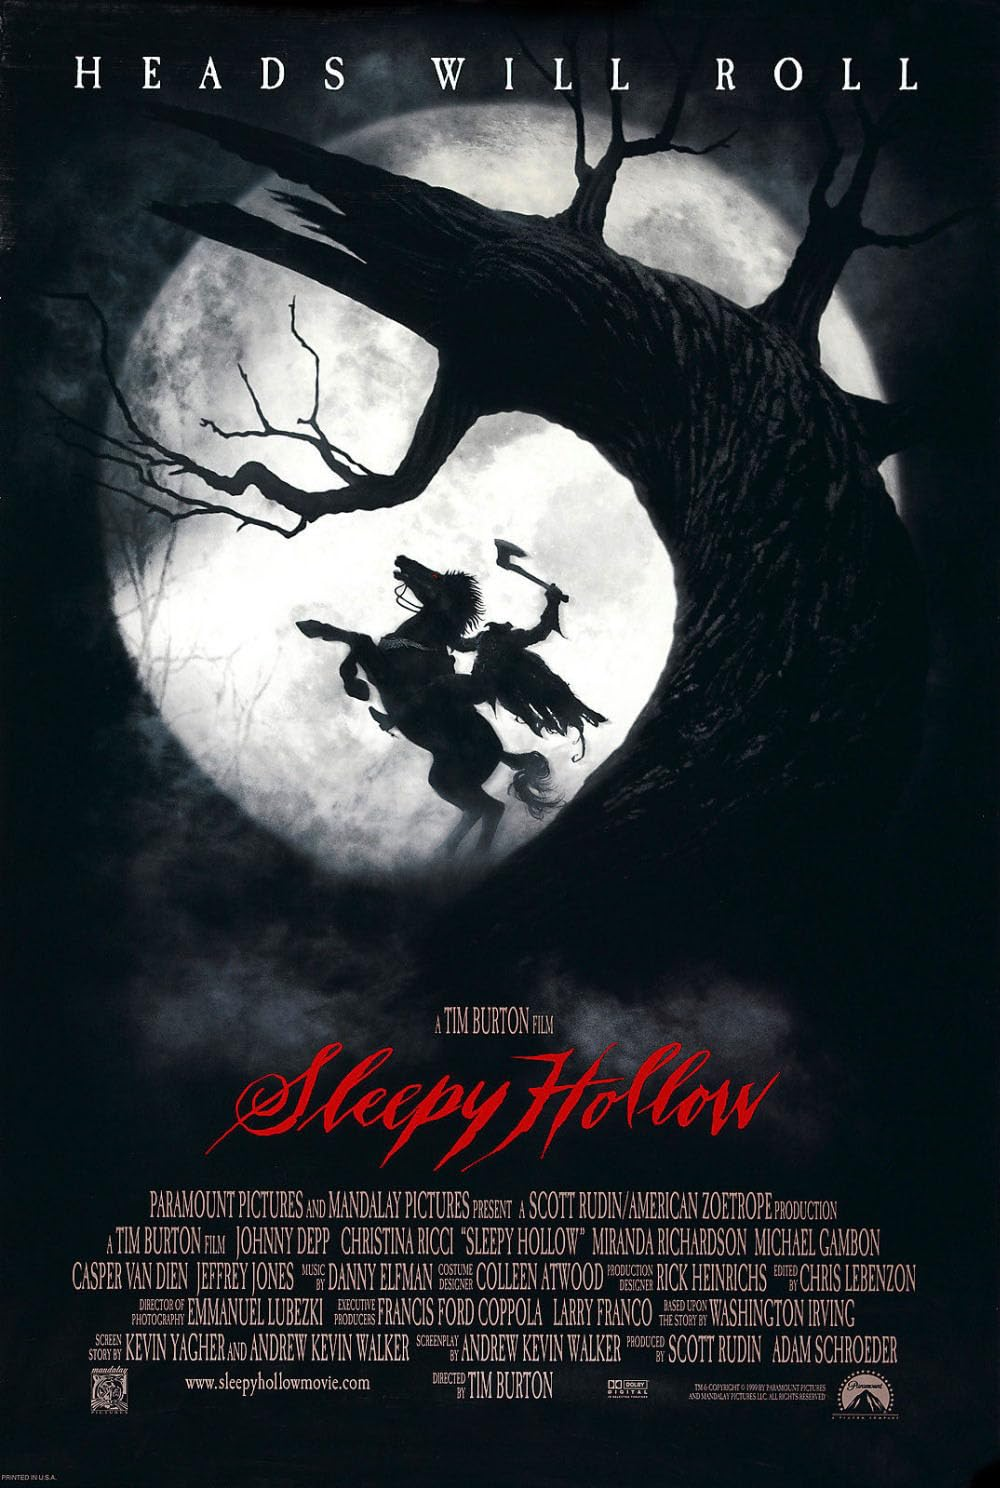
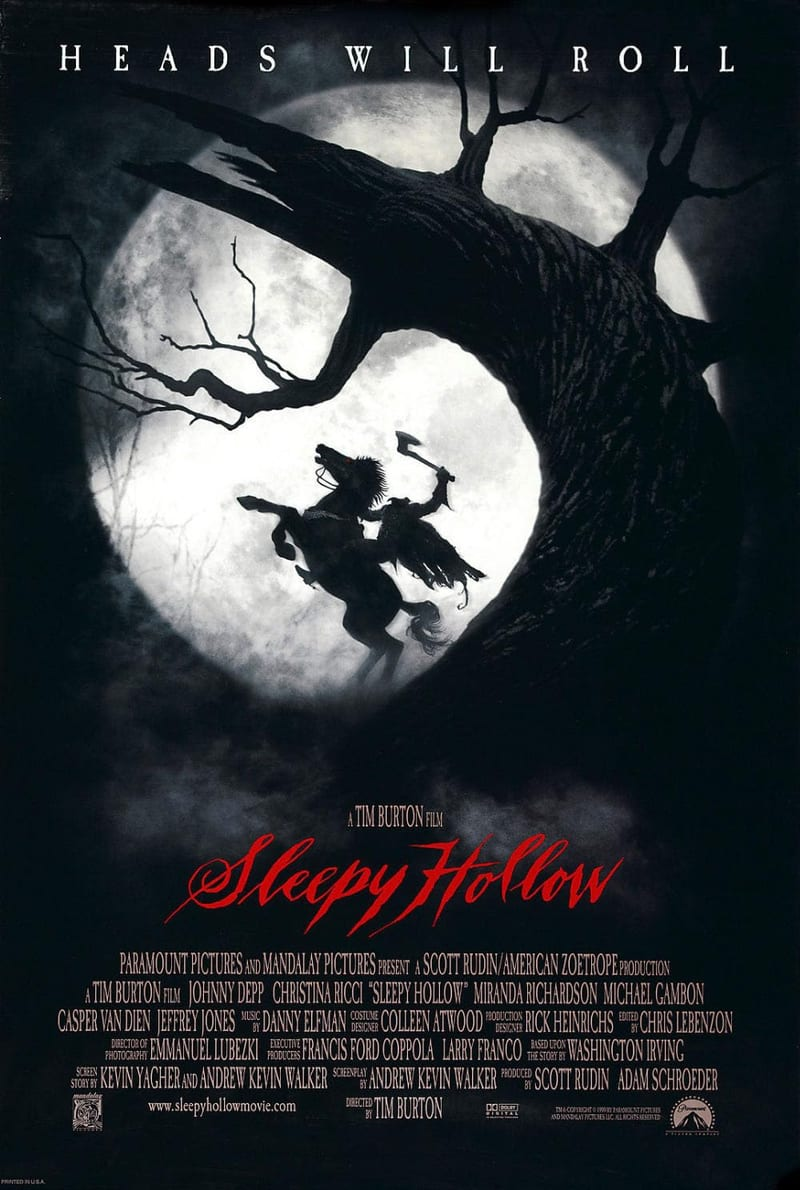
Lighter home and shelf, one masthead everywhere, a bigger certificate that stays whole
- items PNGs to WebP, posters to 800px: home 14.8 → 9.8 MB, off-duty 8.9 → 3.5 MB
- the tablet stays off, and its recording unloaded, until the folder opens
- title and lead stay on the desk and the wall, and head the menu panel too
- the folder's prints and card land clear of the column; the column lets the pointer through
- the wordmark brings the camera home from either stop
- CSSDA seals as worn paper stickers
- the certificate 1.5x, leaning onto the wall rather than through it; the camera stands back to fit it

Changed region(s): [[0.2188, 0.9017, 0.25, 0.9328]]

diff --git a/app/globals.css b/app/globals.css
@@ -1289,13 +1289,15 @@ body::after {
 .env__big { position: absolute; left: 7%; bottom: 3%;
             font-family: var(--font-display), system-ui, sans-serif; font-weight: 900; font-stretch: 62%;
             font-size: calc(118 * var(--eu)); line-height: .8; letter-spacing: -.04em; }
-/* MUSE Gold keeps its foil; the round CSSDA seals are stickers with a white
-   die-cut edge and a thin shadow (box-shadows, not filters — see above). */
+/* MUSE Gold keeps its foil; the round CSSDA seals are paper stickers — matte
+   stock, a die-cut off-white edge and ink worn off in places, all baked into
+   the -paper.webp files — lying flat with a thin shadow (box-shadows, not
+   filters — see above). */
 .env__stamps { position: absolute; inset: 0; }
 .env__stamp, .env__sticker { position: absolute; display: block; }
 .env__stamp--muse { right: 9%; top: 33%; width: 36%; transform: rotate(-4deg); opacity: .92; }
 .env__sticker { transform: rotate(var(--t, 0deg)); border-radius: 50%;
-  box-shadow: 0 0 0 calc(.9 * var(--eu)) #fff, 0 calc(.6 * var(--eu)) calc(.9 * var(--eu)) calc(.9 * var(--eu)) rgba(20,16,12,.3); }
+  box-shadow: 0 calc(.3 * var(--eu)) calc(.5 * var(--eu)) rgba(20,16,12,.28); }
 .env__sticker--ui    { right: 6%;  top: 42%; width: 21%; --t: -8deg; }
 .env__sticker--ux    { right: 27%; top: 44%; width: 18%; --t: 6deg; }
 .env__sticker--kudos { right: 5%;  top: 55%; width: 18%; --t: 14deg; }
@@ -1525,15 +1527,16 @@ html[data-desk-focus="ukrainska-15"] .desk-card[data-side="right"] { --slide: 15
 [data-desk="open"] .desk-world { pointer-events: auto; }
 
 /* ── Recognition: the camera's second stop ──
-   The trophy is big (56 cm), so the camera barely comes in: 15 cm (z 2000),
-   1 m right (x 1578) and 4° down. The trophy (x 1240, 7 cm off the wall)
+   The trophy is big (56 cm), so the camera stands back 35 cm, a little
+   right of the case (x -1100) and 4° down: far enough for the trophy, the
+   rail and the framed certificate beside it to share the frame. The trophy (x 1240, 7 cm off the wall)
    lands left of centre with its base ~16% up the window, the wall to its
    right, a strip of desk under it. Nothing leaves: the case slides off to
    the left (its edge may stay in shot) and the case files stay on the desk. */
 [data-desk="award"] .scene-cam { transform: translate(var(--dx, 0px), var(--dy, 0px)); }
 [data-desk="award"] .desk-world,
 [data-desk="award"] .case-world {
-  transform: rotateX(-4deg) translate3d(calc(-1018 * var(--u)), 0, calc(150 * var(--u)));
+  transform: rotateX(-4deg) translate3d(calc(-1100 * var(--u)), 0, calc(-350 * var(--u)));
 }
 [data-desk="award"] .case-world { pointer-events: none; }
 /* Once there, the pan is driven frame by frame, so the move's own
@@ -1570,15 +1573,19 @@ html[data-desk-focus="ukrainska-15"] .desk-card[data-side="right"] { --slide: 15
 [data-desk="open"] .desk-card--env:not([data-open]):hover .env__shadow {
   box-shadow: 0 calc(6 * var(--eu) / 3) calc(8 * var(--eu) / 3) rgba(20,16,12,.24);
 }
-/* The page around it: the title and the lines under the case step aside,
-   and the index stays, inked for the white desk (over the dark wall it keeps
-   its own colours). */
-.hero-aside h2, .hero-aside h2 + p, .hero-caption, .hero-contact { transition: opacity .5s ease; }
-[data-desk="open"] .hero-aside h2, [data-desk="award"] .hero-aside h2,
-[data-desk="open"] .hero-aside h2 + p, [data-desk="award"] .hero-aside h2 + p,
+/* The page around it: the lines under the case step aside; the column —
+   title, lead and index — stays as it is on every page, inked for the white
+   desk (over the dark wall it keeps its own colours). */
+.hero-caption, .hero-contact { transition: opacity .5s ease; }
 [data-desk="open"] .hero-caption, [data-desk="award"] .hero-caption,
 [data-desk="open"] .hero-contact, [data-desk="award"] .hero-contact { opacity: 0; pointer-events: none; }
-[data-desk="open"] .hero-aside { --fg: #22283a; --muted: #5b6275; }
+/* Over the desk the column's title and lead stay, but only its links take the
+   pointer, so what lies under the words can still be picked up. The ink turns
+   dark only where the column stands over the white desk (1440px and up);
+   under that it sits above the scene, on the page's own ground. */
+[data-desk="open"] .hero-aside-wrap { pointer-events: none; }
+[data-desk="open"] .hero-aside-wrap :is(a, button) { pointer-events: auto; }
+@media (min-width: 1440px) { [data-desk="open"] .hero-aside { --fg: #22283a; --muted: #5b6275; } }
 [data-desk="open"] .hero-aside-wrap, [data-desk="award"] .hero-aside-wrap { border-color: transparent !important; }
 /* <main> starts 56px above the window (under the header) and is one window
    tall, so it stops 56px short of the bottom — and it clips the room. Over

diff --git a/components/desk/U15File.tsx b/components/desk/U15File.tsx
@@ -38,10 +38,10 @@ const SPD = 2150 / 860;                       // screen px per desk px at the ca
 // MUSE Gold is printed in its foil and French Design Awards (no artwork) is a
 // struck ink stamp.
 const STICKERS = [
-  { src: "cssda-ui.png", cls: "ui" },
-  { src: "cssda-ux.png", cls: "ux" },
-  { src: "cssda-inn.png", cls: "inn" },
-  { src: "cssda-kudos.png", cls: "kudos" },
+  { src: "cssda-ui-paper.webp", cls: "ui" },
+  { src: "cssda-ux-paper.webp", cls: "ux" },
+  { src: "cssda-inn-paper.webp", cls: "inn" },
+  { src: "cssda-kudos-paper.webp", cls: "kudos" },
 ] as const;
 
 // Two stacks of prints tucked in the pocket, the family before and the house
@@ -71,17 +71,18 @@ type Pt = { x: number; y: number };
 
 // Where each thing goes once the folder is open, as an offset from where it
 // lies closed (folder units) and the angle it lands at. The layout is for the
-// camera at pan 0: the card left, the booklet to the middle, the stacks up,
+// camera at pan 0, clear of the nav column on the left (it stays on the desk
+// too): the card left, the booklet to the middle, the stacks up,
 // the player right, the tablet slid out bottom right, the folder down.
 // The booklet (nearly the folder's own size, so it lies in the pocket behind
 // the prints) takes the middle of the desk; everything else is laid round
 // its edges, in sight but out of the way, and can be pulled out from under it.
 const OPEN: Record<string, Pt & { r: number }> = {
   sleeve: { x: -20, y: 190, r: -2 },
-  family: { x: -67.5, y: -63, r: 4 },
+  family: { x: 22.5, y: -63, r: 4 },
   after: { x: 169.5, y: -74.6, r: -3 },
-  card: { x: -120, y: 31, r: -4 },
-  book: { x: 55.5, y: -12.5, r: 1 },
+  card: { x: 10, y: 31, r: -4 },
+  book: { x: 85.5, y: -12.5, r: 1 },
   player: { x: 129, y: 20, r: 12 },
   tablet: { x: 160, y: 95, r: -4 },
 };
@@ -191,7 +192,7 @@ export function U15File({ x, y, r }: { x: number; y: number; r: number }) {
       } as React.CSSProperties}
     >
       <span className="env">
-        <Tablet place={place("tablet", 8)} held={held === "tablet"} onPointerDown={(e) => grab("tablet", () => setScreen(true))(e)} onOpen={() => setScreen(true)} />
+        <Tablet live={open} place={place("tablet", 8)} held={held === "tablet"} onPointerDown={(e) => grab("tablet", () => setScreen(true))(e)} onOpen={() => setScreen(true)} />
 
         <span className="env__shadow u15-sleeve u15-item" style={sleeve} aria-hidden />
         {/* eslint-disable-next-line @next/next/no-img-element */}
@@ -479,7 +480,8 @@ function DeskPlayer({ place, held, onGrab }: {
 // The screen is 4.08% / 3.32% in, 91.3 × 88.6% of the cut-out (2360 × 1640).
 const SITE = "https://ukrainska15.com/";
 
-function Tablet({ place, held, onPointerDown, onOpen }: {
+function Tablet({ live, place, held, onPointerDown, onOpen }: {
+  live: boolean;
   place: React.CSSProperties; held: boolean;
   onPointerDown: (e: React.PointerEvent<HTMLElement>) => void; onOpen: () => void;
 }) {
@@ -498,8 +500,10 @@ function Tablet({ place, held, onPointerDown, onOpen }: {
     >
       {/* eslint-disable-next-line @next/next/no-img-element */}
       <img src="/artefacts/ukrainska-15/tablet/tablet.webp" alt="" draggable={false} />
-      <video className="u15-tablet__screen" src="/artefacts/ukrainska-15/tablet/site-scroll.mp4"
-        poster="/artefacts/ukrainska-15/tablet/site-poster.jpg" muted loop playsInline autoPlay preload="metadata" />
+      {/* Switched off until the folder is open: a dark screen, and the
+          recording only loads once there is a case on the desk to show. */}
+      <video className="u15-tablet__screen" src={live ? "/artefacts/ukrainska-15/tablet/site-scroll.mp4" : undefined}
+        poster={live ? "/artefacts/ukrainska-15/tablet/site-poster.jpg" : undefined} muted loop playsInline autoPlay preload="metadata" />
     </button>
   );
 }

diff --git a/components/DeskScene.tsx b/components/DeskScene.tsx
@@ -70,8 +70,11 @@ const AWARD = { x: 1240, h: 600, z: -190 };
 const AWARD_W = Math.round(AWARD.h * 1033 / 3590);   // the still's own aspect
 // The latest certificate (Indigo, Women in Design 2026), framed and
 // standing on the desk against the wall at the right end of the awards:
-// 30 × 21 cm, its foot 2 cm off the wall and its top leaning back onto it.
-const CERT = { x: 2200, w: 322, h: 241, z: -250, lean: 5 };
+// 43 × 32 cm, leaning back 4° with its top just short of the wall: the foot
+// stands h·sin(lean) + 3 px out from it (the wall is at z -269), so the top
+// edge never passes behind the wall and gets cut off.
+const CERT = { x: 2290, w: 460, h: 339, lean: 4 };
+const CERT_Z = Math.round(-269 + CERT.h * Math.sin(CERT.lean * Math.PI / 180) + 3);
 // how far its shadow falls on the wall, 8 cm behind it (box px)
 const CAST = { x: 34, y: 20 };
 
@@ -107,7 +110,7 @@ export function DeskPlanes() {
         style={{
           left: `calc(${CERT.x - CERT.w / 2} * var(--u))`, top: `calc(${656 - CERT.h} * var(--u))`,
           width: `calc(${CERT.w} * var(--u))`, height: `calc(${CERT.h} * var(--u))`,
-          transform: `translateZ(calc(${CERT.z} * var(--u))) rotateX(${CERT.lean}deg)`,
+          transform: `translateZ(calc(${CERT_Z} * var(--u))) rotateX(${CERT.lean}deg)`,
         }}
       >
         {/* eslint-disable-next-line @next/next/no-img-element */}
@@ -338,6 +341,18 @@ export function useDeskCamera(cam: React.RefObject<HTMLDivElement | null>) {
     const onFiles = () => toggle("files");
     const onAward = () => toggle("award");
     const onPop = () => { pushed = false; set(viewOf(location.hash)); };
+    // A link to home (the KATE™ wordmark) from the desk or the wall: Next
+    // changes the URL with pushState, which fires no popstate, so the camera
+    // would stay where it is. Take the click and bring it back to the case.
+    const onHomeLink = (e: MouseEvent) => {
+      if (!open.current || e.defaultPrevented || e.button !== 0 || e.metaKey || e.ctrlKey || e.shiftKey || e.altKey) return;
+      const a = (e.target as Element).closest?.("a[href]") as HTMLAnchorElement | null;
+      if (!a || a.target === "_blank") return;
+      const u = new URL(a.href, location.href);
+      if (u.origin !== location.origin || u.pathname !== "/" || u.hash) return;
+      e.preventDefault(); e.stopPropagation();
+      close();
+    };
     const onKey = (e: KeyboardEvent) => {
       if (!open.current) return;
       if (e.key === "Escape") {
@@ -360,6 +375,7 @@ export function useDeskCamera(cam: React.RefObject<HTMLDivElement | null>) {
     window.addEventListener(DESK_EVENT, onFiles);
     window.addEventListener(AWARD_EVENT, onAward);
     window.addEventListener("popstate", onPop);
+    document.addEventListener("click", onHomeLink, true);
     window.addEventListener("keydown", onKey);
     window.addEventListener("resize", onResize);
     window.addEventListener("wheel", onWheel, { passive: false });
@@ -376,6 +392,7 @@ export function useDeskCamera(cam: React.RefObject<HTMLDivElement | null>) {
     window.removeEventListener(DESK_EVENT, onFiles);
       window.removeEventListener(AWARD_EVENT, onAward);
       window.removeEventListener("popstate", onPop);
+      document.removeEventListener("click", onHomeLink, true);
       window.removeEventListener("keydown", onKey);
       window.removeEventListener("resize", onResize);
       window.removeEventListener("wheel", onWheel);

diff --git a/app/page.tsx b/app/page.tsx
@@ -221,7 +221,7 @@ function TardisModel() {
           />
           {/* eslint-disable-next-line @next/next/no-img-element */}
           <img
-            src="/items/left-1-tardis.png"
+            src="/items/left-1-tardis.webp"
             alt="A model police box"
             className="block w-full h-auto relative"
             style={{ ...imgStyle, zIndex: 1 }}
@@ -586,7 +586,7 @@ export default function Home() {
                 the dark wood it stands in. */}
             {/* eslint-disable-next-line @next/next/no-img-element */}
             <img
-              src="/items/mid-top-trophy.png"
+              src="/items/mid-top-trophy.webp"
               alt=""
               style={{
                 position: "absolute",
@@ -658,7 +658,7 @@ export default function Home() {
             little past it, the way a folded fleece actually sits. */}
         {/* eslint-disable-next-line @next/next/no-img-element */}
         <img
-          src="/items/right-2-blanket.png"
+          src="/items/right-2-blanket.webp"
           alt=""
           aria-hidden
           style={{
@@ -718,7 +718,7 @@ export default function Home() {
               /* eslint-disable-next-line @next/next/no-img-element */
               <img
                 key={o.key}
-                src={`/items/wardrobe/right-rail-${o.src}.png`}
+                src={`/items/wardrobe/right-rail-${o.src}.webp`}
                 alt=""
                 style={{
                   position: "absolute",

diff --git a/components/SideNav.tsx b/components/SideNav.tsx
@@ -6,7 +6,7 @@ import { useEffect, useState } from "react";
 import ThemeToggle from "./ThemeToggle";
 import HeroAside from "./HeroAside";
 import { mono } from "@/components/ui/type";
-import { NAV_LINKS as LINKS, CV_HREF } from "@/lib/nav";
+import { NAV_LINKS as LINKS, CV_HREF, NAV_TITLE, NAV_LEAD } from "@/lib/nav";
 
 /** The site's navigation, in the left margin of every page.
  *
@@ -197,6 +197,12 @@ export default function SideNav() {
               }}
             >
               <div className="px-6 py-2">
+                {/* The same two lines the rail carries, so the menu reads the
+                    same on every page and at every width. */}
+                <div style={{ padding: "18px 0 18px 14px", borderBottom: "1px solid var(--hairline)" }}>
+                  <p className="t-title">{NAV_TITLE}</p>
+                  <p className="t-body mt-2" style={{ color: "var(--fg)" }}>{NAV_LEAD}</p>
+                </div>
                 {LINKS.map((link, i) => (
                   <Link
                     key={link.href}

diff --git a/components/HeroAside.tsx b/components/HeroAside.tsx
@@ -1,5 +1,6 @@
 import Link from "next/link";
 import NavIndex from "@/components/NavIndex";
+import { NAV_TITLE, NAV_LEAD } from "@/lib/nav";
 
 /**
  * The column to the left of the case: the wordmark, who she is, and the
@@ -11,8 +12,8 @@ import NavIndex from "@/components/NavIndex";
  * sentence gets it without a second copy of the markup.
  */
 export default function HeroAside({
-  title = "Product Designer & Design Lead",
-  lead = "I work on complicated products and make them less complicated.",
+  title = NAV_TITLE,
+  lead = NAV_LEAD,
 }: {
   title?: React.ReactNode;
   lead?: React.ReactNode;

diff --git a/lib/nav.ts b/lib/nav.ts
@@ -21,3 +21,8 @@ export const NAV_LINKS = [
 
 export const CV_HREF =
   "https://docs.google.com/document/d/11tvwCA6ZPIoi8v4u_ycBm_ZK570Rci7f/export?format=pdf";
+
+/** Who she is, in the column and at the top of the menu panel — the same two
+ *  lines wherever the navigation is. */
+export const NAV_TITLE = "Product Designer & Design Lead";
+export const NAV_LEAD = "I work on complicated products and make them less complicated.";
